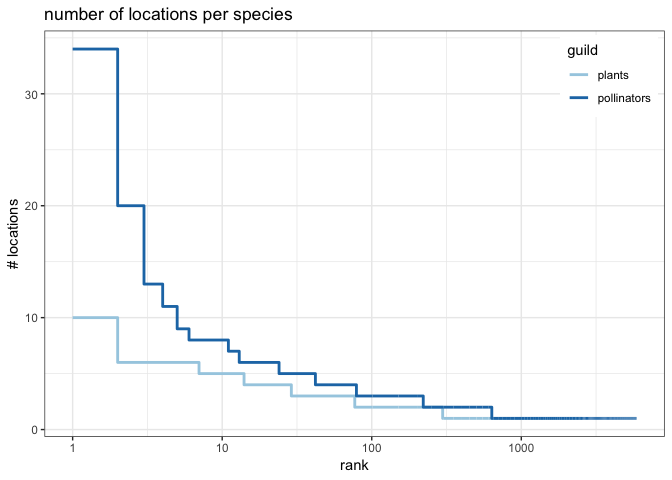
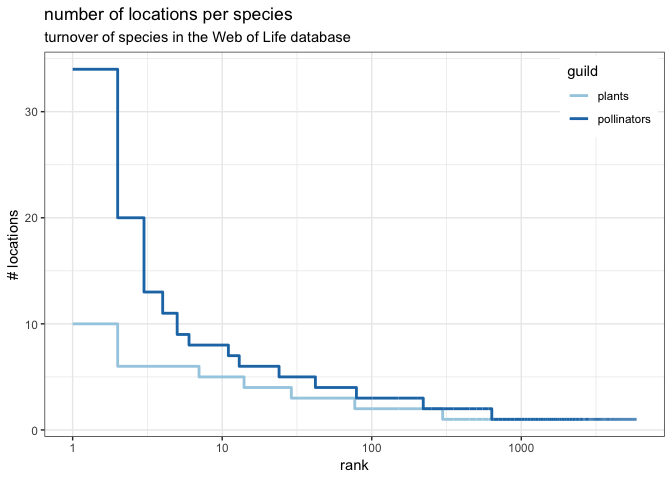
Adjust output directory of the markdown file

diff --git a/paper/data-exploration/turnover.md b/paper/data-exploration/turnover.md
@@ -1,15 +1,62 @@
-The research question is to investigate whether species interact differently in the core of their range versus at the fringes of their distribution, where one would expect it to be harder.
+We want to investigate whether species interact differently at the core of their range compared to the fringes of their distribution. One could expect species to diversify their interactions as interaction parters become less common/available. Alternatively, one could expect species to interact with only a subset of the interaction partners, as they cannot develop new interactions when environemntal conditions are close to the limits of where possitive groth rates occur.
 
-The aim of this document is to explore whetherthe interaction data available in the Bascompte's Web of Life is adequate to answer this question or not.
+The aim of this document is to explore whether the interaction data available in the Bascompte's Web of Life could be adequate to answer this question or not.
 
-We start by checking wether species (and interactions) are reflected in enough localities to be able to detect a signal of change across the habitat.
+We start by checking wether species (and interactions) occur in enough localities to be able to detect a change across the species ranges.
 
-Species turnover
-================
+Species & interaction turnover
+------------------------------
 
-![](turnover_files/figure-markdown_github/unnamed-chunk-1-1.png)![](turnover_files/figure-markdown_github/unnamed-chunk-1-2.png)
+### Species turnover
 
-![](turnover_files/figure-markdown_github/unnamed-chunk-2-1.png)![](turnover_files/figure-markdown_github/unnamed-chunk-2-2.png)
+![](/Users/efc29/github/nz-species-distributions-and-networks/paper/data-exploration/turnover_files/figure-markdown_github/unnamed-chunk-1-1.png)
 
-Interactions turnover
-=====================
+|     | guild | species               |  \# locations|
+|-----|:------|:----------------------|-------------:|
+| 1   | pla   | Trifolium repens      |            10|
+| 2   | pla   | Achillea millefolium  |             6|
+| 3   | pla   | Hypochoeris radicata  |             6|
+| 4   | pla   | Ixeris dentata        |             6|
+| 5   | pla   | Prunella vulgaris     |             6|
+| 6   | pla   | Taraxacum officinale  |             6|
+| 7   | pla   | Cerastium alpinum     |             5|
+| 8   | pla   | Cirsium arvense       |             5|
+| 9   | pla   | Fuchsia regia         |             5|
+| 10  | pla   | Lantana camara        |             5|
+| 1   | pol   | Apis mellifera        |            34|
+| 2   | pol   | Eristalis tenax       |            20|
+| 3   | pol   | Episyrphus balteatus  |            13|
+| 4   | pol   | Syritta pipiens       |            11|
+| 5   | pol   | Melanostoma scalare   |             9|
+| 6   | pol   | Bombus terrestris     |             8|
+| 7   | pol   | Bombylius major       |             8|
+| 8   | pol   | Lycaena phlaeas       |             8|
+| 9   | pol   | Melanostoma mellinum  |             8|
+| 10  | pol   | Sphaerophoria scripta |             8|
+
+### Interaction turnover
+
+![](/Users/efc29/github/nz-species-distributions-and-networks/paper/data-exploration/turnover_files/figure-markdown_github/unnamed-chunk-3-1.png)
+
+|     | plant                 | pollinator               |  \# locations|
+|-----|:----------------------|:-------------------------|-------------:|
+| 1   | Fuchsia regia         | Thalurania glaucopis     |             4|
+| 2   | Hydrangea paniculata  | Lasioglossum apristum    |             4|
+| 3   | Hypochoeris radicata  | Episyrphus balteatus     |             4|
+| 4   | Lathyrus pratensis    | Bombus pascuorum         |             4|
+| 5   | Persicaria thunbergii | Eristalis cerealis       |             4|
+| 6   | Astilbe thunbergii    | Lasioglossum apristum    |             3|
+| 7   | Calluna vulgaris      | Apis mellifera           |             3|
+| 8   | Calluna vulgaris      | Episyrphus balteatus     |             3|
+| 9   | Calluna vulgaris      | Eristalis tenax          |             3|
+| 10  | Calluna vulgaris      | Mellinus arvensis        |             3|
+| 11  | Cirsium arvense       | Bombus lapidarius        |             3|
+| 12  | Cirsium arvense       | Bombus terrestris        |             3|
+| 13  | Cirsium arvense       | Maniola jurtina          |             3|
+| 14  | Cistus salvifolius    | Apis mellifera           |             3|
+| 15  | Deutzia crenata       | Eristalis cerealis       |             3|
+| 16  | Deutzia crenata       | Sphaerophoria menthastri |             3|
+| 17  | Epilobium latifolium  | Nysius groenlandicus     |             3|
+| 18  | Fuchsia regia         | Clytolaema rubricauda    |             3|
+| 19  | Galactites tomentosa  | Apis mellifera           |             3|
+| 20  | Galium propinquum     | Heteria appendiculata    |             3|
